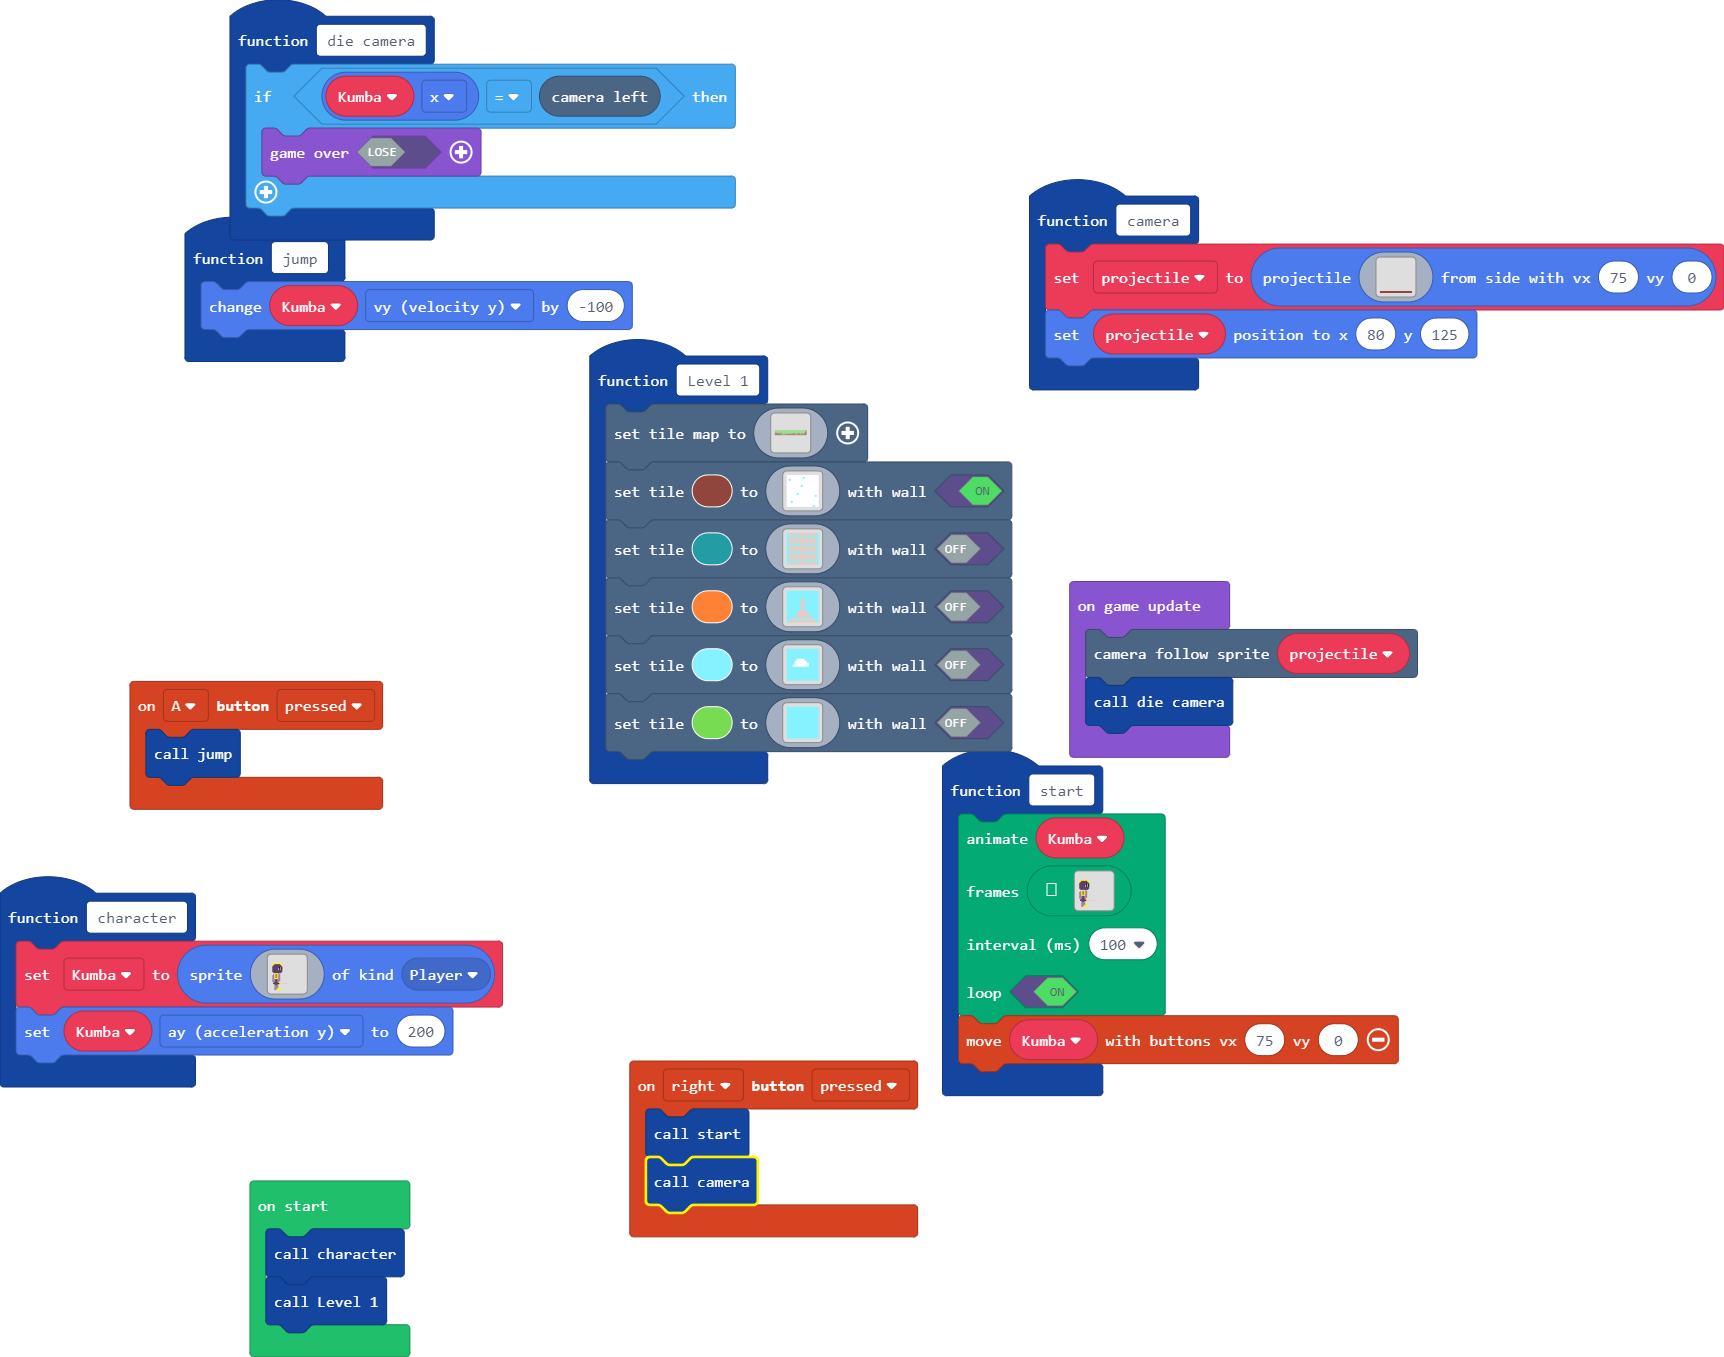
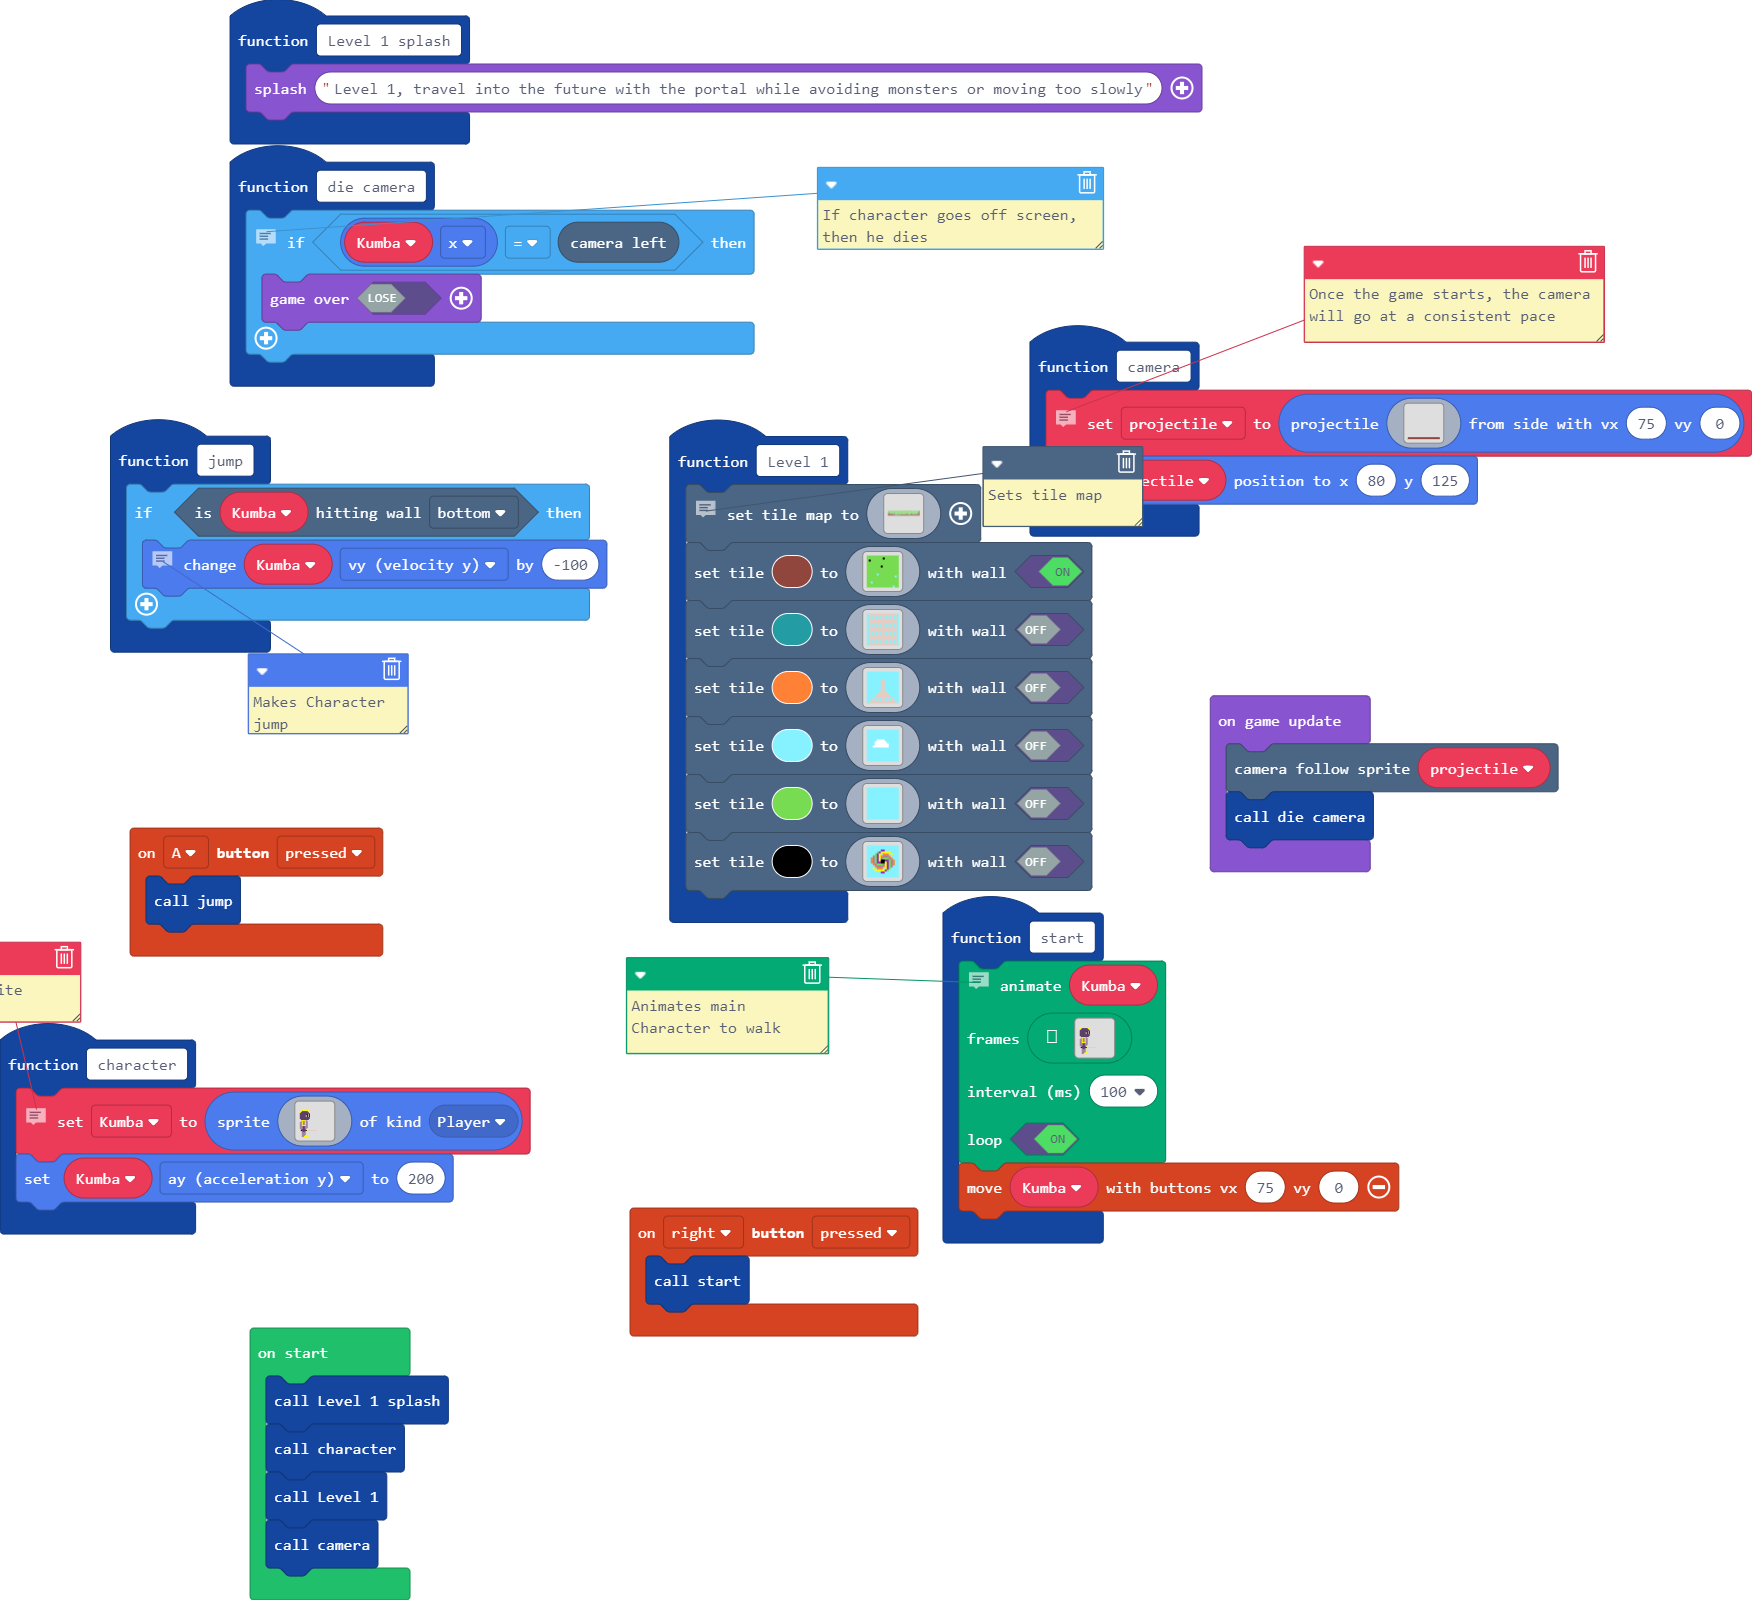
Update main.blocks, main.ts

diff --git a/main.ts b/main.ts
@@ -1,4 +1,5 @@
 function character () {
+    // sets sprite
     Kumba = sprites.create(img`
 . . . . . . . . . . . . . . . . . . . . . . . . . . . . . . . . 
 . . . . . . . . . . . . . . . . . . . . . . . . . . . . . . . . 
@@ -36,11 +37,17 @@ function character () {
     Kumba.ay = 200
 }
 function die_camera () {
+    // If character goes off screen, then he dies
     if (Kumba.x == scene.cameraLeft()) {
         game.over(false)
     }
 }
+function Level_1_splash () {
+    game.splash("Level 1, travel into the future with the portal while avoiding monsters or moving too slowly")
+}
 function camera () {
+    // Once the game starts, the camera will go at a
+    // consistent pace
     projectile = sprites.createProjectileFromSide(img`
 . . . . . . . . . . . . . . . . 
 . . . . . . . . . . . . . . . . 
@@ -62,6 +69,7 @@ e e e e e e e e e e e e e e e e
     projectile.setPosition(80, 125)
 }
 function Level_1 () {
+    // Sets tile map
     scene.setTileMap(img`
 7 7 7 7 7 7 7 7 7 7 7 7 7 7 7 7 7 7 7 7 7 7 7 7 7 7 7 7 7 7 7 7 7 7 7 7 7 7 7 7 7 7 7 9 7 7 7 7 7 7 
 7 9 7 7 7 9 7 7 7 7 7 7 9 7 7 7 7 7 7 7 9 7 7 7 9 7 7 7 7 7 7 7 7 7 7 7 7 7 9 7 9 7 7 7 7 7 9 7 7 f 
@@ -73,22 +81,22 @@ e e e e e e e e e e e e 7 7 7 7 6 7 7 e e e e e e e e e e e e e 7 7 7 e e e e e 
 e e e e e e e e e e e e e e e e e e e e e e e e e e e e e e e e e e e e e e e e e e e e e e e e e e 
 `)
     scene.setTile(14, img`
-1 1 1 1 1 1 1 1 1 1 1 1 1 1 1 1 
-1 1 1 1 1 1 1 1 9 1 1 1 1 1 1 1 
-1 9 1 1 1 1 1 1 1 1 1 1 1 1 1 1 
-1 1 1 1 1 1 1 1 1 1 1 1 1 1 1 1 
-1 1 1 1 1 1 1 1 1 1 1 1 1 1 1 1 
-1 1 1 1 1 1 1 9 1 1 1 1 1 1 1 1 
-1 1 1 1 1 1 1 1 1 1 1 1 1 1 1 1 
-1 1 1 1 1 1 1 1 1 1 1 1 1 1 1 1 
-1 1 1 1 1 1 1 1 1 1 1 1 1 1 1 1 
-1 1 1 1 1 9 1 1 1 1 1 1 1 1 1 1 
-1 1 1 1 1 1 1 1 1 1 1 1 1 1 9 1 
-1 1 1 1 1 1 1 1 1 1 1 1 1 1 1 1 
-1 1 1 1 1 1 1 1 1 1 1 1 1 1 1 1 
-1 1 9 1 1 1 1 1 1 1 1 1 1 1 1 1 
-1 1 1 1 1 1 1 1 1 1 1 1 1 1 1 1 
-1 1 1 1 1 1 1 1 1 1 1 1 1 9 1 1 
+7 7 7 7 7 7 7 7 7 7 7 7 7 7 7 7 
+7 7 7 7 7 7 7 7 f 7 7 7 7 7 7 7 
+7 f 7 7 7 7 7 7 7 7 7 7 7 7 7 7 
+7 7 7 7 7 7 7 7 7 7 7 7 7 7 7 7 
+7 7 7 7 7 7 7 7 7 7 7 7 7 7 7 7 
+7 7 7 7 7 7 7 f 7 7 7 7 7 7 7 7 
+7 7 7 7 7 7 7 7 7 7 7 7 7 7 7 7 
+7 7 7 7 7 7 7 7 7 7 7 7 7 7 7 7 
+7 7 7 7 7 7 7 7 7 7 7 7 7 7 7 7 
+7 7 7 7 7 9 7 7 7 7 7 7 7 7 7 7 
+7 7 7 7 7 7 7 7 7 7 7 7 7 7 9 7 
+7 7 7 7 7 7 7 7 7 7 7 7 7 7 7 7 
+7 7 7 7 7 7 7 7 7 7 7 7 7 7 7 7 
+7 7 9 7 7 7 7 7 7 7 7 7 7 7 7 7 
+7 7 7 7 7 7 7 7 7 7 7 7 7 7 7 7 
+7 7 7 7 7 7 7 7 7 7 7 7 7 9 7 7 
 `, true)
     scene.setTile(6, img`
 9 d d d d d d d d d d d d d d 9 
@@ -162,18 +170,39 @@ e e e e e e e e e e e e e e e e e e e e e e e e e e e e e e e e e e e e e e e e 
 9 9 9 9 9 9 9 9 9 9 9 9 9 9 9 9 
 9 9 9 9 9 9 9 9 9 9 9 9 9 9 9 9 
 `, false)
+    scene.setTile(15, img`
+9 9 9 9 9 9 9 9 9 9 9 9 9 9 9 9 
+9 9 9 9 9 9 9 9 9 9 9 9 9 9 9 9 
+9 9 9 9 9 9 9 a a 9 9 9 9 9 9 9 
+9 9 9 9 9 7 a 5 5 5 5 5 9 9 9 9 
+9 9 9 9 7 a 5 9 4 4 4 9 5 9 9 9 
+9 9 9 b 7 a 5 4 b b b 4 9 9 9 9 
+9 9 4 b 7 a 5 b 7 7 7 b 4 9 9 9 
+9 9 4 b 7 a 5 f f a a 7 b 4 9 9 
+9 9 4 b 7 a a f f 5 a 7 b 4 9 9 
+9 9 9 4 b 7 7 7 b 5 a 7 b 4 9 9 
+9 9 9 9 4 b b b 4 5 a 7 b 9 9 9 
+9 9 9 5 9 4 4 4 9 5 a 7 9 9 9 9 
+9 9 9 9 5 5 5 5 5 a 7 9 9 9 9 9 
+9 9 9 9 9 9 9 a a 9 9 9 9 9 9 9 
+9 9 9 9 9 9 9 9 9 9 9 9 9 9 9 9 
+9 9 9 9 9 9 9 9 9 9 9 9 9 9 9 9 
+`, false)
 }
 controller.A.onEvent(ControllerButtonEvent.Pressed, function () {
     jump()
 })
 controller.right.onEvent(ControllerButtonEvent.Pressed, function () {
     start()
-    camera()
 })
 function jump () {
-    Kumba.vy += -100
+    if (Kumba.isHittingTile(CollisionDirection.Bottom)) {
+        // Makes Character jump
+        Kumba.vy += -100
+    }
 }
 function start () {
+    // Animates main Character to walk
     animation.runImageAnimation(
     Kumba,
     [img`
@@ -316,8 +345,10 @@ function start () {
 }
 let projectile: Sprite = null
 let Kumba: Sprite = null
+Level_1_splash()
 character()
 Level_1()
+camera()
 game.onUpdate(function () {
     scene.cameraFollowSprite(projectile)
     die_camera()
